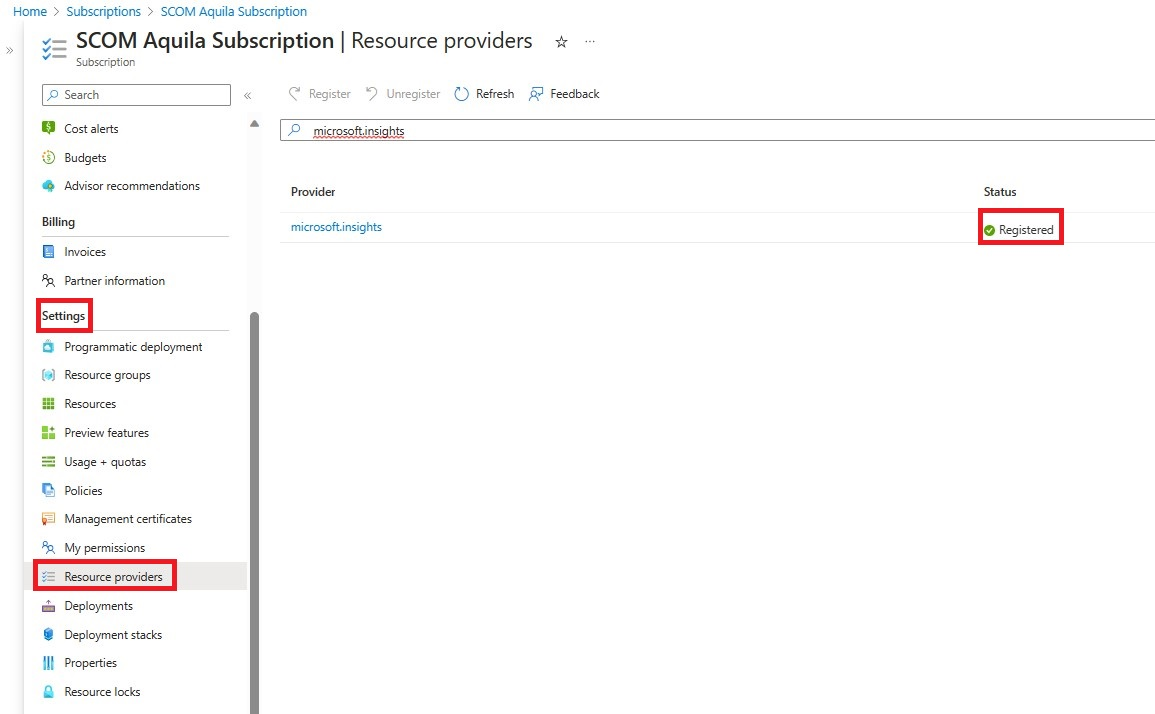
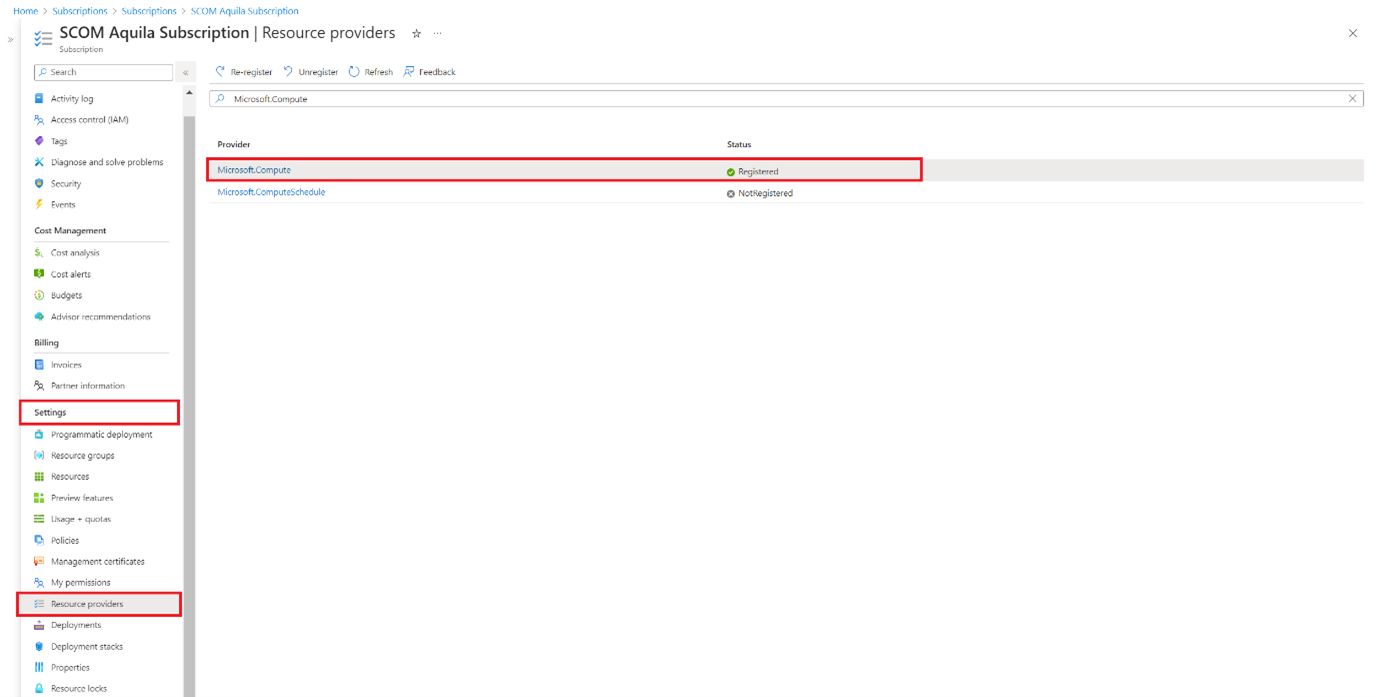
Updates for UUF April-SCOM MI

diff --git a/SystemCenterDocs/scom/create-user-assigned-identity.md b/SystemCenterDocs/scom/create-user-assigned-identity.md
@@ -5,7 +5,7 @@ description: This article describes how to create a user-assigned identity, prov
 author: PriskeyJeronika-MS
 ms.author: v-gjeronika
 manager: jsuri
-ms.date: 11/14/2023
+ms.date: 04/15/2024
 ms.custom: UpdateFrequency.5
 ms.service: system-center
 ms.subservice: operations-manager-managed-instance
@@ -22,7 +22,7 @@ This article describes how to create a user-assigned identity, provide admin acc
 
 ## Create a managed service identity
 
-The managed service identity (MSI) provides an identity for applications to use when they're connecting to resources that support Azure Active Directory authentication. For SCOM Managed Instance, a managed identity replaces the traditional four System Center Operations Manager service accounts. It's used to access the Azure SQL Managed Instance database. It's also used to access the key vault.
+The managed service identity (MSI) provides an identity for applications to use when they're connecting to resources that support Microsoft Entra ID authentication. For SCOM Managed Instance, a managed identity replaces the traditional four System Center Operations Manager service accounts. It's used to access the Azure SQL Managed Instance database. It's also used to access the key vault.
 
 > [!NOTE]
 > - Ensure that you're a contributor in the subscription where you create the MSI.
@@ -56,18 +56,18 @@ The managed service identity (MSI) provides an identity for applications to use 
 
 Your deployment is now created on Azure. You can access the resource and view its details.
 
-### Set the Active Directory admin value in the SQL managed instance
+### Set the Microsoft Entra admin value in the SQL managed instance
 
-To set the Active Directory admin value in the SQL managed instance that you created in [step 3](create-sql-managed-instance.md), follow these steps:
+To set the Microsoft Entra admin value in the SQL managed instance that you created in [step 3](create-sql-managed-instance.md), follow these steps:
 
 >[!NOTE]
 >You must have Global Administrator or Privileged Role Administrator permissions for the subscription to perform the following operations.
 
-1. Open the SQL managed instance. Under **Settings**, select **Active Directory admin**.
+1. Open the SQL managed instance. Under **Settings**, select **Microsoft Entra admin**.
 
-   :::image type="Active directory admin" source="media/create-user-assigned-identity/active-directory-admin-inline.png" alt-text="Screenshot of the pane for Active Directory admin information." lightbox="media/create-user-assigned-identity/active-directory-admin-expanded.png":::
+   :::image type="Microsoft entra admin" source="media/create-user-assigned-identity/microsoft-entra-admin-inline.png" alt-text="Screenshot of the pane for Microsoft Entra admin information." lightbox="media/create-user-assigned-identity/microsoft-entra-admin-expanded.png":::
 
-1. Select the error-box message to provide **Read** permissions to the SQL managed instance on Azure Active Directory (AAD). **Grant permissions** pane opens to grant the permissions.
+1. Select the error-box message to provide **Read** permissions to the SQL managed instance on Microsoft Entra ID. **Grant permissions** pane opens to grant the permissions.
 
    :::image type="Grant permissions" source="media/create-user-assigned-identity/grant-permissions.png" alt-text="Screenshot of grant permissions.":::
 
@@ -77,13 +77,13 @@ To set the Active Directory admin value in the SQL managed instance that you cre
 
 1. Select **Set admin**, and search for your MSI. This MSI is the same one that you provided during the SCOM Managed Instance creation flow. You find the admin added to the SQL managed instance.
 
-   :::image type="Azure Active directory admin" source="media/create-user-assigned-identity/azure-active-directory-inline.png" alt-text="Screenshot of MSI information for Azure Active Directory." lightbox="media/create-user-assigned-identity/azure-active-directory-expanded.png":::
+   :::image type="Microsoft entra admin" source="media/create-user-assigned-identity/microsoft-entra-inline.png" alt-text="Screenshot of MSI information for microsoft entra." lightbox="media/create-user-assigned-identity/microsoft-entra-expanded.png":::
 
 1. If you get an error after you add a managed identity account, it indicates that read permissions aren't yet provided to your identity. Be sure to provide the necessary permissions before you create your SCOM managed instance or else your SCOM managed instance creation fails.
 
-   :::image type="SQL Active directory admin" source="media/create-user-assigned-identity/sql-active-directory-admin-inline.png" alt-text="Screenshot that shows successful Active Directory authentication." lightbox="media/create-user-assigned-identity/sql-active-directory-admin-expanded.png":::
+   :::image type="SQL Active directory admin" source="media/create-user-assigned-identity/sql-microsoft-entra-inline.png" alt-text="Screenshot that shows successful Active Directory authentication." lightbox="media/create-user-assigned-identity/sql-microsoft-entra-expanded.png":::
 
-For more information about permissions, see [Directory Readers role in Azure Active Directory for Azure SQL](/azure/azure-sql/database/authentication-aad-directory-readers-role?view=azuresql&preserve-view=true).
+For more information about permissions, see [Directory Readers role in Microsoft Entra ID for Azure SQL](/azure/azure-sql/database/authentication-aad-directory-readers-role?view=azuresql&preserve-view=true).
 
 ## Grant permission on the key vault
 

diff --git a/SystemCenterDocs/scom/register-scom-managed-instance-resource-provider.md b/SystemCenterDocs/scom/register-scom-managed-instance-resource-provider.md
@@ -5,7 +5,7 @@ description: This article describes how to register the SCOM Managed Instance re
 author: PriskeyJeronika-MS
 ms.author: v-gjeronika
 manager: jsuri
-ms.date: 11/14/2023
+ms.date: 04/15/2024
 ms.custom: UpdateFrequency.5
 ms.service: system-center
 ms.subservice: operations-manager-managed-instance
@@ -26,10 +26,11 @@ To register the SCOM Managed Instance resource provider, follow these steps:
 
 1. Sign in to the [Azure portal](https://portal.azure.com) and select **Subscriptions**.
 1. Select the subscription where you want to deploy SCOM Managed Instance.
-1. Under **Settings**, select **Resource providers**.
-1. Search for **SCOM** and register **Microsoft.Scom**.
-1. On the **Subscription** page, under **Settings**, select **Resource providers** and search for **microsoft.insights**. If the **microsoft.insights** provider isn't registered, select the provider, and then select **Register**.
-1. On the **Subscription** page, under **Settings**, select **Resource providers** and search for **microsoft.Compute**. If the **microsoft.Compute** provider isn't registered, select the provider, and then select **Register**.
+1. On the **Subscription** page, under **Settings**, select **Resource providers** and search for **Microsoft.Scom**. If the **Microsoft.Scom** provider isn't registered, select the provider, and then select **Register**.
+
+    :::image type="Microsoft SCOM resource provider" source="media/register-scom-managed-instance-resource-provider/resource-providers-inline.png" alt-text="Screenshot that shows the Microsoft SCOM provider." lightbox="media/register-scom-managed-instance-resource-provider/resource-providers-expanded.png":::
+
+1. On the **Subscription** page, under **Settings**, select **Resource providers** and search for **Microsoft.Compute**. If the **Microsoft.Compute** provider isn't registered, select the provider, and then select **Register**.
 
     :::image type="Microsoft Insights resource provider" source="media/register-scom-managed-instance-resource-provider/resource-provider-inline.png" alt-text="Screenshot that shows the Microsoft insights provider." lightbox="media/register-scom-managed-instance-resource-provider/resource-provider-expanded.png":::
 
